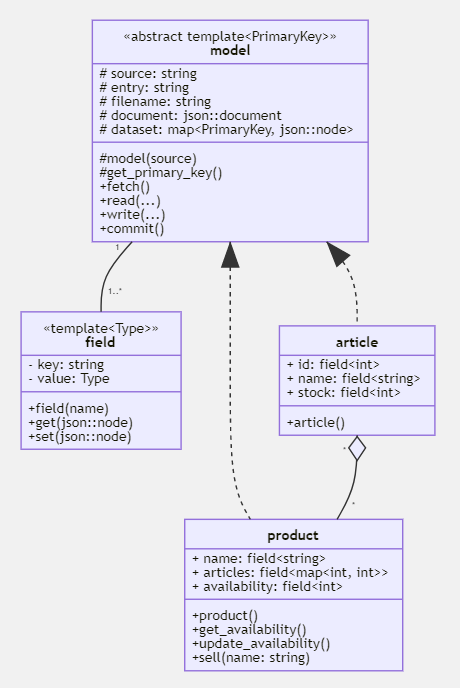
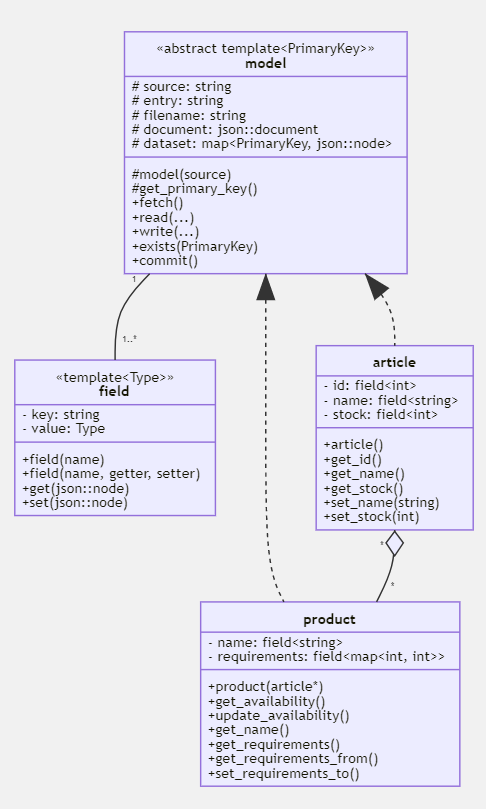
Adding getters and setters to the models.

Changed region(s): [[0.1826, 0.0305, 0.9739, 0.9767], [0.0304, 0.3968, 0.4565, 0.6715]]

diff --git a/docs/data-models.md b/docs/data-models.md
@@ -10,6 +10,7 @@ classDiagram
         - key: string
         - value: Type
         + field(name)
+        + field(name, getter, setter)
         + get(json::node) Type&
         + set(json::node) void
     }
@@ -26,23 +27,31 @@ classDiagram
         + fetch() void
         + read(...)* void
         + write(...)* void
+        + exists(PrimaryKey) bool
         + commit() void
     }
 
     class article {
-        + id: field<int>
-        + name: field<string>
-        + stock: field<int>
+        - id: field<int>
+        - name: field<string>
+        - stock: field<int>
         + article()
+        + get_id() int
+        + get_name() string
+        + get_stock() int
+        + set_name(string)
+        + set_stock(int)
     }
 
     class product {
-        + name: field<string>
-        + articles: field<map<int, int>>
-        + availability: field<int>
-        + product()
+        - name: field<string>
+        - requirements: field<map<int, int>>
+        + product(article*)
         + get_availability() int
         + update_availability() void
-        + sell(name: string) bool
+        + get_name() string
+        + get_requirements() map<int,int>
+        + get_requirements_from() map<int,int>
+        + set_requirements_to()
     }
 ```
